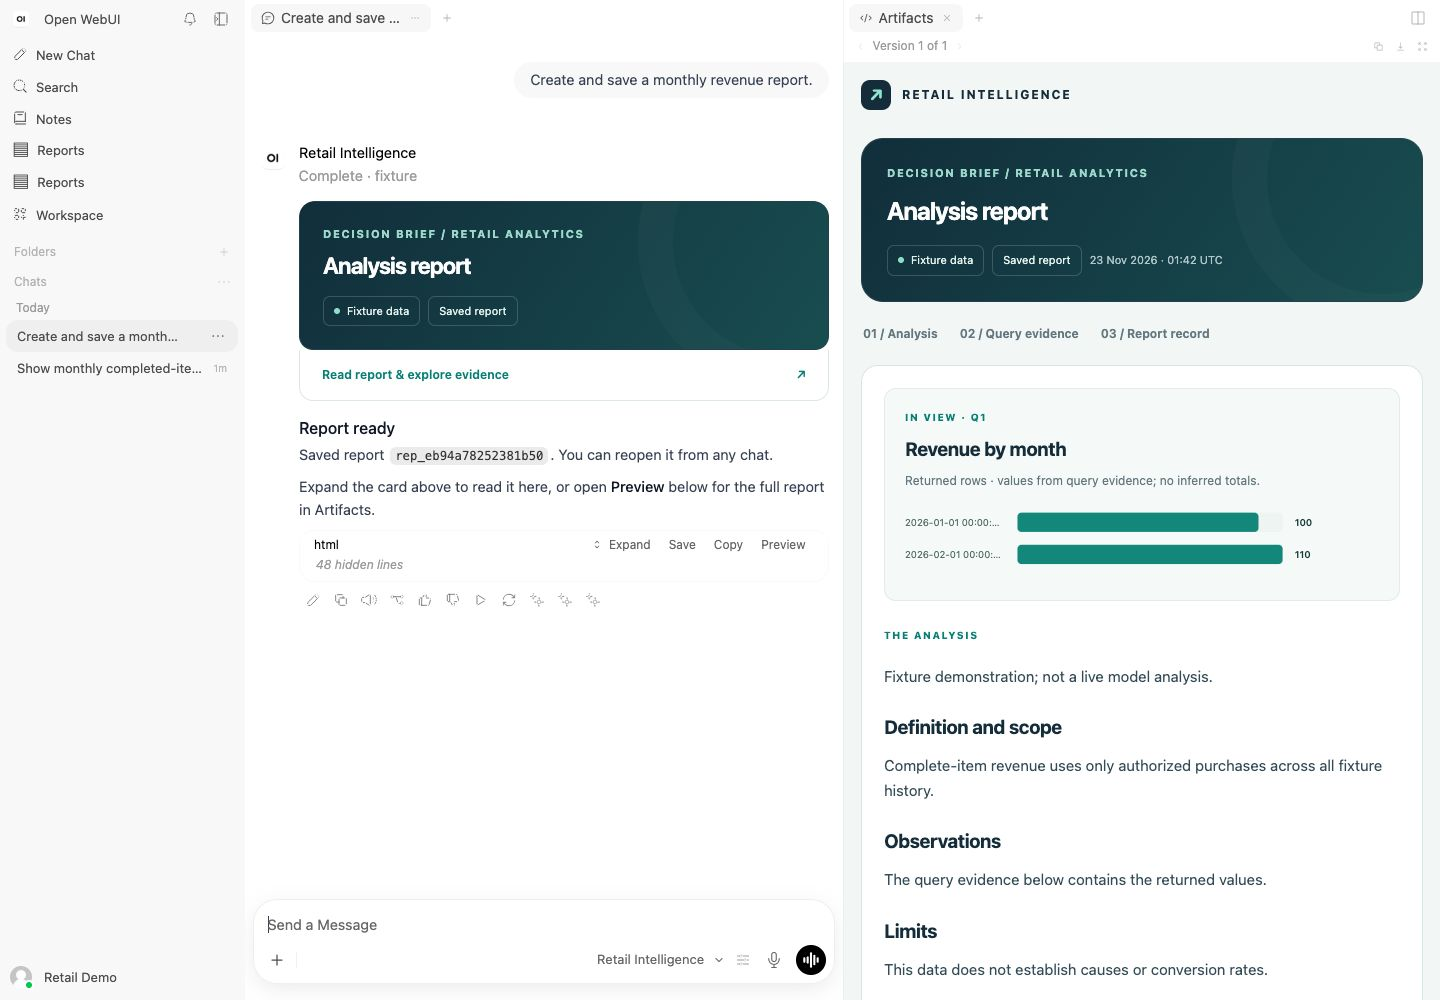
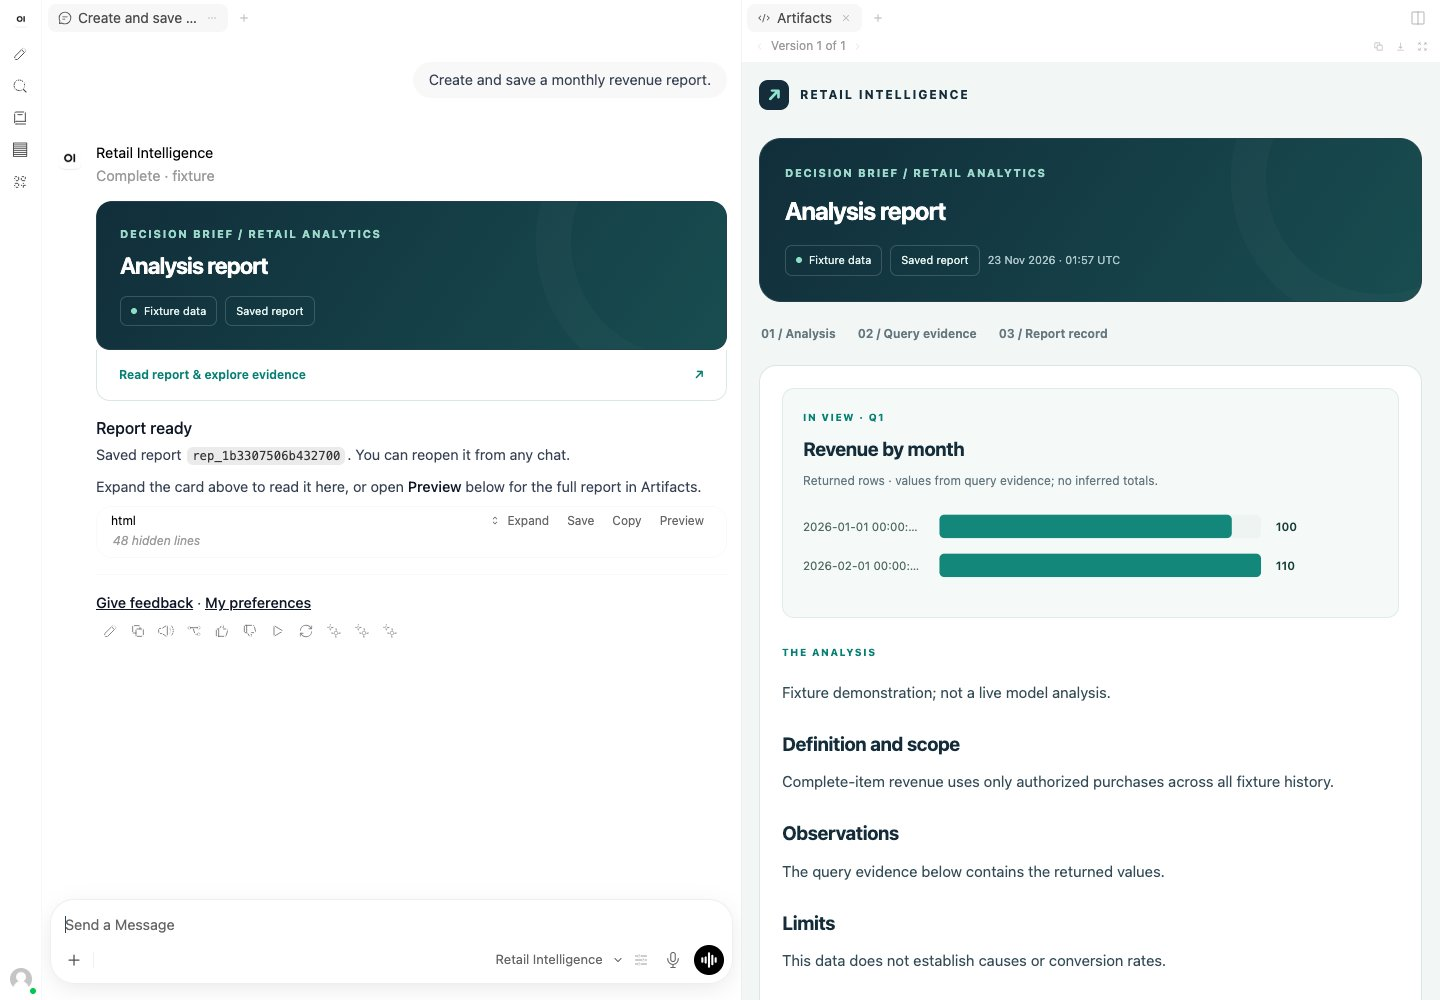
Refresh WebUI screenshots with visible feedback workflow

diff --git a/START_HERE.md b/START_HERE.md
@@ -31,6 +31,13 @@ credentials are stored in a private volume mounted read-only by the API.
 6. Ask **Delete reports** to preview the targets. Use `/cancel ID` to keep them;
    deletion requires the displayed `/confirm ID` command.
 
+<details>
+<summary>Feedback form preview (synthetic demo)</summary>
+
+![Feedback form opened from a specific answer](evaluation/screenshots/webui-feedback-fixture-2026-11-23.jpg)
+
+</details>
+
 The static live demo permissions give Alice Seven7/Calvin Klein, Bob Diesel and
 the CEO all brands. Adjust `BRAND_ACCESS_JSON` before launching if needed.
 Demographic results require the configured minimum cohort size, including for the CEO.

diff --git a/README.md b/README.md
@@ -90,7 +90,7 @@ messages before backend sanitization.
 
 ## WebUI preview
 
-![Open WebUI chat with a saved report and the Artifacts panel](evaluation/screenshots/webui-chat-artifacts-fixture-2026-11-23.jpg)
+![Open WebUI chat with a saved report, Artifacts panel and visible feedback link](evaluation/screenshots/webui-chat-artifacts-fixture-2026-11-23.jpg)
 
 Local synthetic-data preview, captured 23 November. [Report workflow and CLI](START_HERE.md).
 
